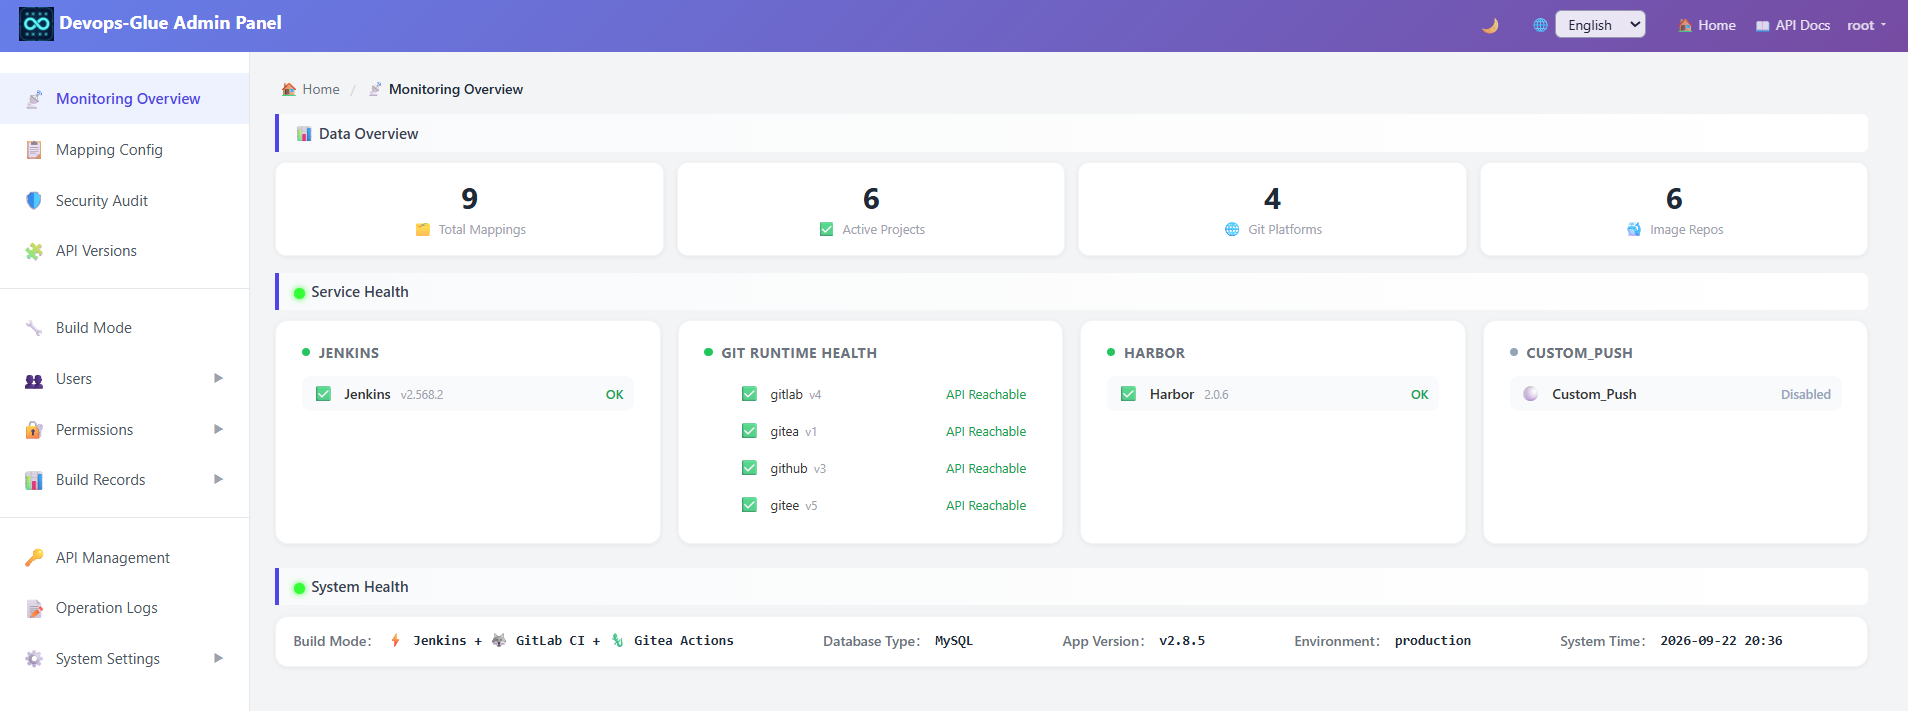
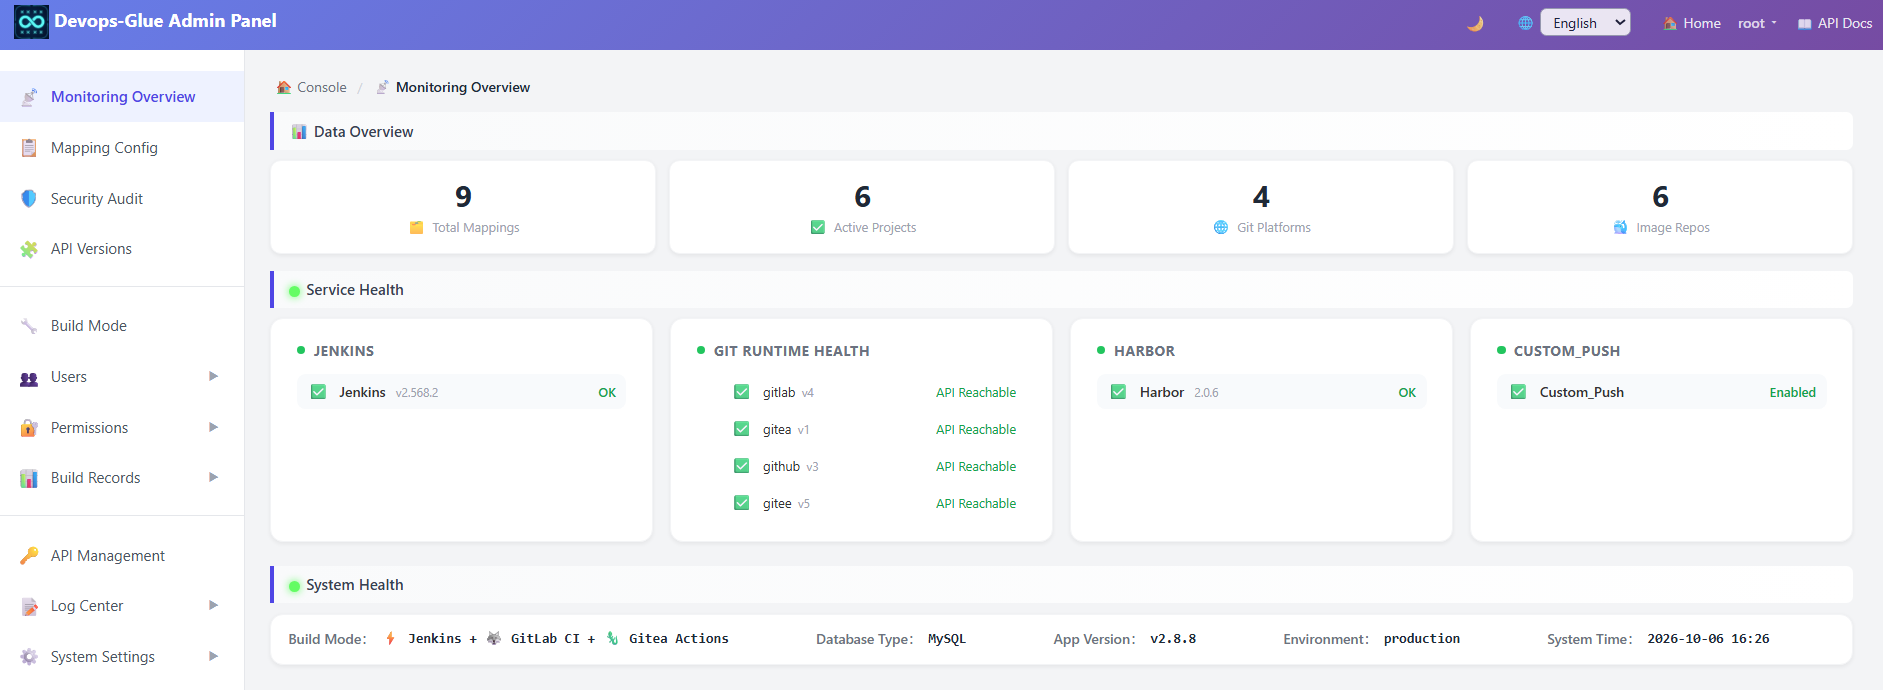
fix: i18n for topbar logout menu (account & logout title + logout link)

diff --git a/templates/admin.html b/templates/admin.html
@@ -49,9 +49,9 @@
             </span>
             <a href="/"><span class="menu-icon">🏠</span> <span data-i18n="admin.home">首页</span></a>
             <span class="top-user-wrap" id="top-user-wrap">
-                <button type="button" id="top-user" onclick="toggleTopMenu()" title="账号与退出"><span id="top-user-name"></span><span class="top-user-caret">▾</span></button>
+                <button type="button" id="top-user" onclick="toggleTopMenu()" data-i18n-title="admin.account_logout"><span id="top-user-name"></span><span class="top-user-caret">▾</span></button>
                 <div class="top-user-menu" id="top-user-menu">
-                    <a href="#" onclick="doLogout()">退出</a>
+                    <a href="#" onclick="doLogout()" data-i18n="auth.logout">退出</a>
                 </div>
             </span>
             <a href="#" onclick="goToDocs()"><span class="menu-icon">📖</span> <span data-i18n="admin.api_docs">API 文档</span></a>

diff --git a/lang/en/messages.php b/lang/en/messages.php
@@ -283,6 +283,7 @@ return [
     'admin.home'            => 'Home',
     'admin.console'         => 'Console',
     'admin.api_docs'        => 'API Docs',
+    'admin.account_logout'  => 'Account & Logout',
     'admin.sidebar_monitor' => 'Monitoring Overview',
     'admin.sidebar_mapping' => 'Mapping Config',
     'admin.sidebar_security'=> 'Security Audit',

diff --git a/lang/zh_CN/messages.php b/lang/zh_CN/messages.php
@@ -283,6 +283,7 @@ return [
     'admin.home'            => '首页',
     'admin.console'         => '控制台',
     'admin.api_docs'        => 'API 文档',
+    'admin.account_logout'  => '账号与退出',
     'admin.sidebar_monitor' => '监测概览',
     'admin.sidebar_mapping' => '映射管理',
     'admin.sidebar_security'=> '安全审计',
